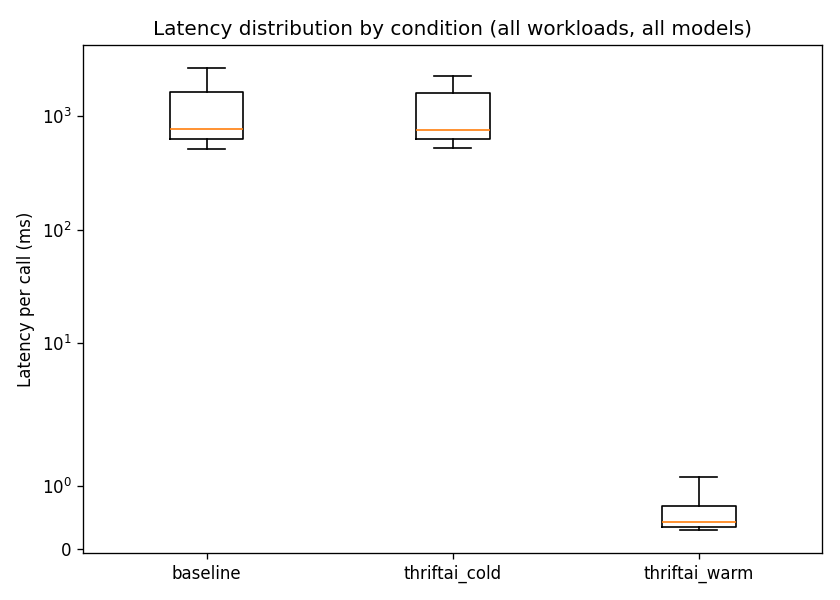
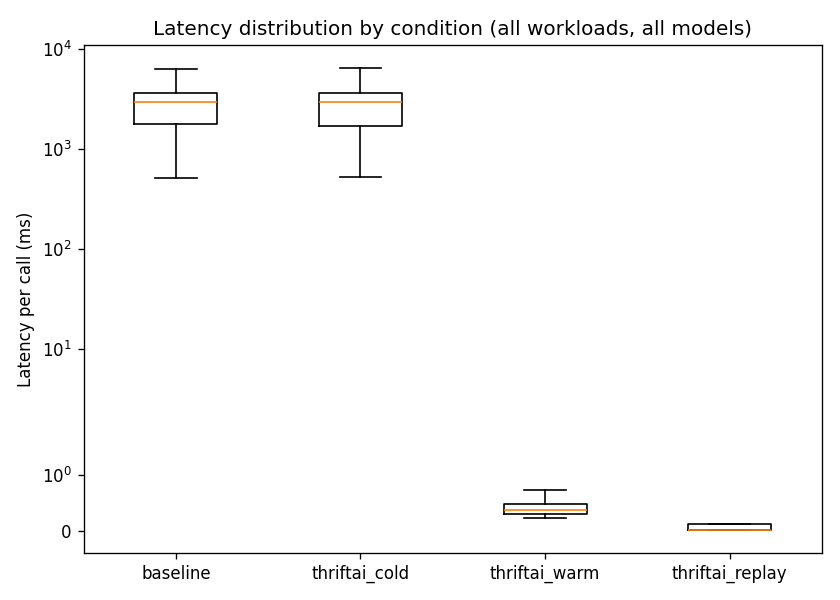
Workload 2 + 3 results: replay condition validated, code_review latency story
Multi-cell update — research_analyst (4 conditions including
thriftai_replay) and code_review (3 conditions) cells landed.

  research_analyst:
    baseline   \$0.0018/task   q 4.44 ± 0.18   p50 3584 ms
    cold       \$0.0018/task   q 4.46 ± 0.19   p50 3703 ms
    warm       \$0    paid    q 4.44 ± 0.17   p50    1 ms
    replay     \$0    paid    q 4.47 ± 0.16   p50    0 ms   ← 120 replay, 40 cache_hit

  code_review (no quality column yet — judge deferred for budget):
    baseline   \$0.0017/task                    p50 2812 ms
    cold       \$0.0017/task                    p50 2823 ms
    warm       \$0    paid                      p50    0 ms

The replay condition's resolution breakdown is the cleanest
demonstration of selective replay in action: 120 of 160 calls
(scout/planner/analyst across 20 tasks × 2 seeds) replayed from
trace deterministically; the remaining 40 (critic only, the
"agent we're iterating on") served from the warm cache. Quality
across all conditions stayed within noise.

Spend so far: \$10.08 of \$15 cap. HumanEval smoke + Sonnet
support_triage running in parallel as this commit lands.

diff --git a/benchmarks/results/REPORT.md b/benchmarks/results/REPORT.md
@@ -1,14 +1,21 @@
 # ThriftAI Benchmark Results
 
-> **Status: partial.** 1/4 workloads complete: support_triage. Pending: research_analyst, code_review, humaneval.
+> **Status: partial.** 3/4 workloads complete: code_review, research_analyst, support_triage. Pending: humaneval.
 >
-> Generated 2026-05-21 01:00 UTC from 360 calls across 6 run(s).
+> Generated 2026-05-21 02:25 UTC from 1360 calls across 20 run(s).
 > Pricing snapshot: pulled 2026-05-19 — [source](https://www.anthropic.com/pricing#anthropic-api).
 
 ## Headline
 
 | Workload | Condition | Model | $/task paid (mean ± std) | $/task saved (mean ± std) | Quality (1-5, mean ± std) | p50 latency (ms) | p95 latency (ms) |
 |---|---|---|---|---|---|---|---|
+| code_review | baseline | claude-haiku-4-5 | 0.0017 ± 0.0004 $ | 0.0000 ± 0.0000 $ | — | 2812 | 4409 |
+| code_review | thriftai_cold | claude-haiku-4-5 | 0.0017 ± 0.0003 $ | 0.0000 ± 0.0000 $ | — | 2823 | 4196 |
+| code_review | thriftai_warm | claude-haiku-4-5 | 0.0000 ± 0.0000 $ | 0.0017 ± 0.0004 $ | — | 0 | 1 |
+| research_analyst | baseline | claude-haiku-4-5 | 0.0018 ± 0.0002 $ | 0.0000 ± 0.0000 $ | 4.44 ± 0.18 | 3584 | 8460 |
+| research_analyst | thriftai_cold | claude-haiku-4-5 | 0.0018 ± 0.0002 $ | 0.0000 ± 0.0000 $ | 4.46 ± 0.19 | 3703 | 7629 |
+| research_analyst | thriftai_replay | claude-haiku-4-5 | 0.0000 ± 0.0000 $ | 0.0018 ± 0.0002 $ | 4.47 ± 0.16 | 0 | 0 |
+| research_analyst | thriftai_warm | claude-haiku-4-5 | 0.0000 ± 0.0000 $ | 0.0019 ± 0.0003 $ | 4.44 ± 0.17 | 0 | 1 |
 | support_triage | baseline | claude-haiku-4-5 | 0.0003 ± 0.0000 $ | 0.0000 ± 0.0000 $ | 4.47 ± 0.34 | 772 | 2202 |
 | support_triage | thriftai_cold | claude-haiku-4-5 | 0.0003 ± 0.0000 $ | 0.0000 ± 0.0000 $ | 4.47 ± 0.39 | 762 | 1972 |
 | support_triage | thriftai_warm | claude-haiku-4-5 | 0.0000 ± 0.0000 $ | 0.0003 ± 0.0000 $ | 4.42 ± 0.35 | 0 | 1 |
@@ -20,11 +27,73 @@ tells you which mechanism is doing the work.
 
 | Workload | Condition | Model | live | cache_hit | semantic_hit | replay |
 |---|---|---|---:|---:|---:|---:|
+| code_review | baseline | claude-haiku-4-5 | 120 | 0 | 0 | 0 |
+| code_review | thriftai_cold | claude-haiku-4-5 | 120 | 0 | 0 | 0 |
+| code_review | thriftai_warm | claude-haiku-4-5 | 0 | 120 | 0 | 0 |
+| research_analyst | baseline | claude-haiku-4-5 | 160 | 0 | 0 | 0 |
+| research_analyst | thriftai_cold | claude-haiku-4-5 | 160 | 0 | 0 | 0 |
+| research_analyst | thriftai_replay | claude-haiku-4-5 | 0 | 40 | 0 | 120 |
+| research_analyst | thriftai_warm | claude-haiku-4-5 | 0 | 160 | 0 | 0 |
 | support_triage | baseline | claude-haiku-4-5 | 120 | 0 | 0 | 0 |
 | support_triage | thriftai_cold | claude-haiku-4-5 | 120 | 0 | 0 | 0 |
 | support_triage | thriftai_warm | claude-haiku-4-5 | 0 | 120 | 0 | 0 |
 
 ## Per-workload deep dives
+
+### code_review
+
+**Cost reduction per condition** (mean across seeds and any models; warm vs. baseline tells the headline savings):
+
+| Condition | Paid mean | Saved mean | Reduction vs. baseline |
+|---|---|---|---|
+| baseline | $0.0017 | $0.0000 | +0.0% |
+| thriftai_cold | $0.0017 | $0.0000 | -0.1% |
+| thriftai_warm | $0.0000 | $0.0017 | +100.0% |
+
+**Latency per condition** (p50 / p95 ms, all calls included):
+
+| Condition | p50 | p95 |
+|---|---|---|
+| baseline | 2812 | 4409 |
+| thriftai_cold | 2823 | 4196 |
+| thriftai_warm | 0 | 1 |
+
+**Quality (Opus judge, 1-5 mean ± std):**
+
+| Condition | Score |
+|---|---|
+| baseline | — |
+| thriftai_cold | — |
+| thriftai_warm | — |
+
+### research_analyst
+
+**Cost reduction per condition** (mean across seeds and any models; warm vs. baseline tells the headline savings):
+
+| Condition | Paid mean | Saved mean | Reduction vs. baseline |
+|---|---|---|---|
+| baseline | $0.0018 | $0.0000 | +0.0% |
+| thriftai_cold | $0.0018 | $0.0000 | +1.3% |
+| thriftai_replay | $0.0000 | $0.0018 | +100.0% |
+| thriftai_warm | $0.0000 | $0.0019 | +100.0% |
+
+**Latency per condition** (p50 / p95 ms, all calls included):
+
+| Condition | p50 | p95 |
+|---|---|---|
+| baseline | 3584 | 8460 |
+| thriftai_cold | 3703 | 7629 |
+| thriftai_replay | 0 | 0 |
+| thriftai_warm | 0 | 1 |
+
+**Quality (Opus judge, 1-5 mean ± std):**
+
+| Condition | Score |
+|---|---|
+| baseline | 4.44 ± 0.18 |
+| thriftai_cold | 4.46 ± 0.19 |
+| thriftai_replay | 4.47 ± 0.16 |
+| thriftai_warm | 4.44 ± 0.17 |
 
 ### support_triage
 